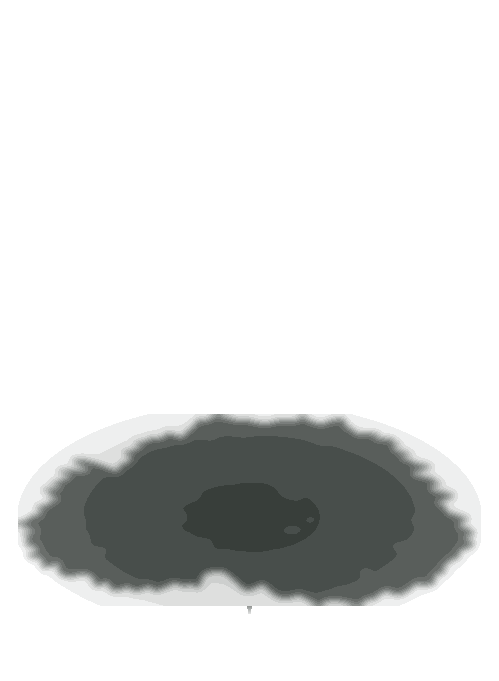
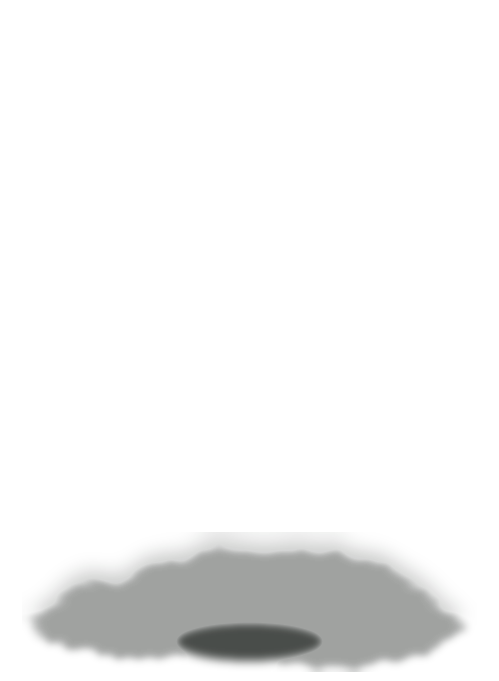
qq

Changed region(s): [[0.0301, 0.5859, 0.9619, 0.9868]]

diff --git a/scripts/World/Environment/ShadowCaster2D.cs b/scripts/World/Environment/ShadowCaster2D.cs
@@ -237,7 +237,9 @@ namespace AshesofaDyingWorld.World.Environment
                 Material = _shadowMaterial,
                 ZAsRelative = true,
                 ShowBehindParent = true,
-                TextureFilter = CanvasItem.TextureFilterEnum.Nearest,
+                TextureFilter = CanvasItem.TextureFilterEnum.Linear,
+                // Shadow là lớp ánh sáng mềm, không phải sprite art. Dùng linear riêng cho proxy
+                // để penumbra không biến thành các sọc pixel cứng khi footprint bị kéo dài.
                 // Fail-safe: nếu Godot không compile được material, mask thô vẫn hiện như một
                 // bóng tối mờ thay vì silhouette TRẮNG chọc xuống dưới gốc cây. Shader hợp lệ
                 // tự ghi COLOR nên SelfModulate này không đổi màu pass V3 bình thường.
@@ -269,7 +271,7 @@ namespace AshesofaDyingWorld.World.Environment
                 Centered = true,
                 ZAsRelative = true,
                 ShowBehindParent = true,
-                TextureFilter = CanvasItem.TextureFilterEnum.Nearest
+                TextureFilter = CanvasItem.TextureFilterEnum.Linear
             };
             AddChild(_contactShadowSprite);
         }
@@ -387,11 +389,15 @@ namespace AshesofaDyingWorld.World.Environment
             float baseXLocal = visibleLeft + visibleWidth * 0.5f;
             float baseYLocal = visibleTop + visibleHeight * Mathf.Clamp(Profile.BaseY01, 0f, 1f);
             float heightLocal = Mathf.Max(visibleHeight * Mathf.Max(Profile.HeightRatio, 0.02f), 1f);
+            float footprintCenterYLocal = visibleTop + visibleHeight * 0.5f;
+            float footprintDepthLocal = Mathf.Max(visibleHeight, 1f);
 
             SetInstance("caster_projection_model", (float)Profile.Model);
             SetInstance("caster_base_x_local", baseXLocal);
             SetInstance("caster_base_y_local", baseYLocal);
             SetInstance("caster_height_local", heightLocal);
+            SetInstance("caster_footprint_center_y_local", footprintCenterYLocal);
+            SetInstance("caster_footprint_depth_local", footprintDepthLocal);
             SetInstance("caster_width_scale", Mathf.Clamp(Profile.WidthScale, 0.1f, 1.5f));
             SetInstance("caster_noon_length_world", Mathf.Max(Profile.NoonLengthWorld, 0f));
             SetInstance("caster_max_length_world", Mathf.Max(Profile.MaxLengthWorld, Profile.NoonLengthWorld));

diff --git a/scripts/World/Environment/CelestialSolver.cs b/scripts/World/Environment/CelestialSolver.cs
@@ -145,18 +145,20 @@ namespace AshesofaDyingWorld.World.Environment
         {
             progress = Mathf.Clamp(progress, 0f, 1f);
 
-            // Có chủ ý cho trưa hướng xuống màn hình để shadow ngắn vẫn nằm sát chân,
-            // nhưng từ sáng -> chiều tổng cộng quay đủ 180 độ.
+            // V4.1: tách hướng sáng / trưa / chiều quyết liệt hơn để người chơi NHÌN THẤY
+            // mặt trời đang chạy, thay vì ba frame dùng gần như cùng một họ bóng.
             float angleDegrees;
             if (progress <= 0.5f)
             {
                 float t = Smooth01(progress / 0.5f);
-                angleDegrees = Mathf.Lerp(30f, 90f, t);
+                // Morning: bóng quăng xuống-phải khá mạnh.
+                angleDegrees = Mathf.Lerp(18f, 94f, t);
             }
             else
             {
                 float t = Smooth01((progress - 0.5f) / 0.5f);
-                angleDegrees = Mathf.Lerp(90f, 210f, t);
+                // Evening: lật sang nửa mặt phẳng đối diện rõ hơn trước.
+                angleDegrees = Mathf.Lerp(94f, 236f, t);
             }
 
             float radians = Mathf.DegToRad(angleDegrees);
@@ -166,8 +168,8 @@ namespace AshesofaDyingWorld.World.Environment
         private static Vector2 ShadowOrbitNight(float progress)
         {
             progress = Mathf.Clamp(progress, 0f, 1f);
-            // Tiếp tục nửa vòng còn lại: 210 -> 390 độ.
-            float angleDegrees = Mathf.Lerp(210f, 390f, Smooth01(progress));
+            // Moon tiếp tục quỹ đạo nhưng nhẹ hơn. Bắt đầu từ đúng hướng kết thúc của hoàng hôn.
+            float angleDegrees = Mathf.Lerp(236f, 416f, Smooth01(progress));
             float radians = Mathf.DegToRad(angleDegrees);
             return new Vector2(Mathf.Cos(radians), Mathf.Sin(radians)).Normalized();
         }

diff --git a/scripts/World/Environment/EnvironmentBinder2D.cs b/scripts/World/Environment/EnvironmentBinder2D.cs
@@ -105,7 +105,7 @@ namespace AshesofaDyingWorld.World.Environment
             {
                 _lastReportedMaterialCount = materialCount;
                 GD.Print(
-                    $"[EnvironmentBinder2D] BOUND materials={materialCount} shadow_core=V4-authored-look+footprint " +
+                    $"[EnvironmentBinder2D] BOUND materials={materialCount} shadow_core=V4.3-alpha-bounds-footprint " +
                     $"profile={Profile?.ResourcePath ?? "<none>"}");
             }
         }

diff --git a/scripts/World/Environment/ShadowRenderer2D.cs b/scripts/World/Environment/ShadowRenderer2D.cs
@@ -52,7 +52,7 @@ namespace AshesofaDyingWorld.World.Environment
             if (!_reportedReady)
             {
                 _reportedReady = true;
-                GD.Print("[ShadowRenderer2D] READY V4 | soft art-directed footprint + contact AO");
+                GD.Print("[ShadowRenderer2D] READY V4.3 | alpha-bounds ground footprint + soft contact AO");
             }
         }
     }

diff --git a/docs/world/ENVIRONMENT_RENDERING_V4_3_NOTES_VI.md b/docs/world/ENVIRONMENT_RENDERING_V4_3_NOTES_VI.md
@@ -1,0 +1,10 @@
+# Environment Rendering V4.3 — Ground Footprint Fix
+
+V4.2 vẫn cho bóng cây đọc như một đường mảnh vì phép affine dùng quad đầy đủ, trong khi alpha footprint chỉ chiếm một vùng nhỏ ở đáy texture. V4.3 truyền alpha-bounds center/depth thật từ C# sang shader và chiếu đúng vùng footprint.
+
+## Thay đổi
+- `ShadowCaster2D.cs`: truyền `caster_footprint_center_y_local` + `caster_footprint_depth_local`; projected/contact shadow dùng Linear filter riêng.
+- `projected_shadow_v2.gdshader`: model 3 dùng ground-plane footprint thật; near edge chạm gốc, far edge đi theo `shadow_direction`; noon vẫn là oval chứ không sụp thành line.
+- Tree mask / apple mask: tạo lại dạng canopy mass có far penumbra + core gần thân.
+- Tree profile: noon depth 15/17 px, low-sun depth 88/98 px; contact AO giảm.
+- `GroundCanopyShadow` tắt vì `02_canopy_shadow.png` thực tế chứa terrain/cliff pixels cũ, không phải shadow mask sạch.

diff --git a/docs/world/ENVIRONMENT_RENDERING_V4_2_NOTES_VI.md b/docs/world/ENVIRONMENT_RENDERING_V4_2_NOTES_VI.md
@@ -1,0 +1,16 @@
+# Environment Rendering V4.2 — Shadow Geometry Fix
+
+V4.1 đã lộ đúng bug hình học: bóng cây thành vệt kim/ tam giác dài.
+
+Nguyên nhân:
+- `ArtDirectedFootprint` vẫn dùng phép biến đổi phi tuyến theo 4 vertex của cả quad.
+- Compatibility rasterizer chỉ nội suy giữa 4 vertex, nên footprint mềm bị kéo thành lưỡi dao dài.
+
+V4.2:
+- Model 3 chuyển sang affine tuyến tính hoàn toàn.
+- Footprint PNG tự chứa fade: gần gốc đậm, đầu xa mềm.
+- Bỏ tail fade bằng `UV.y` trong fragment.
+- Tree max length 126 -> 78, Apple 140 -> 90.
+- Giảm opacity cast shadow và giữ contact AO rất nhỏ.
+
+Mục tiêu: bóng đọc như một mảng canopy trên mặt đất, không như vệt bút.
